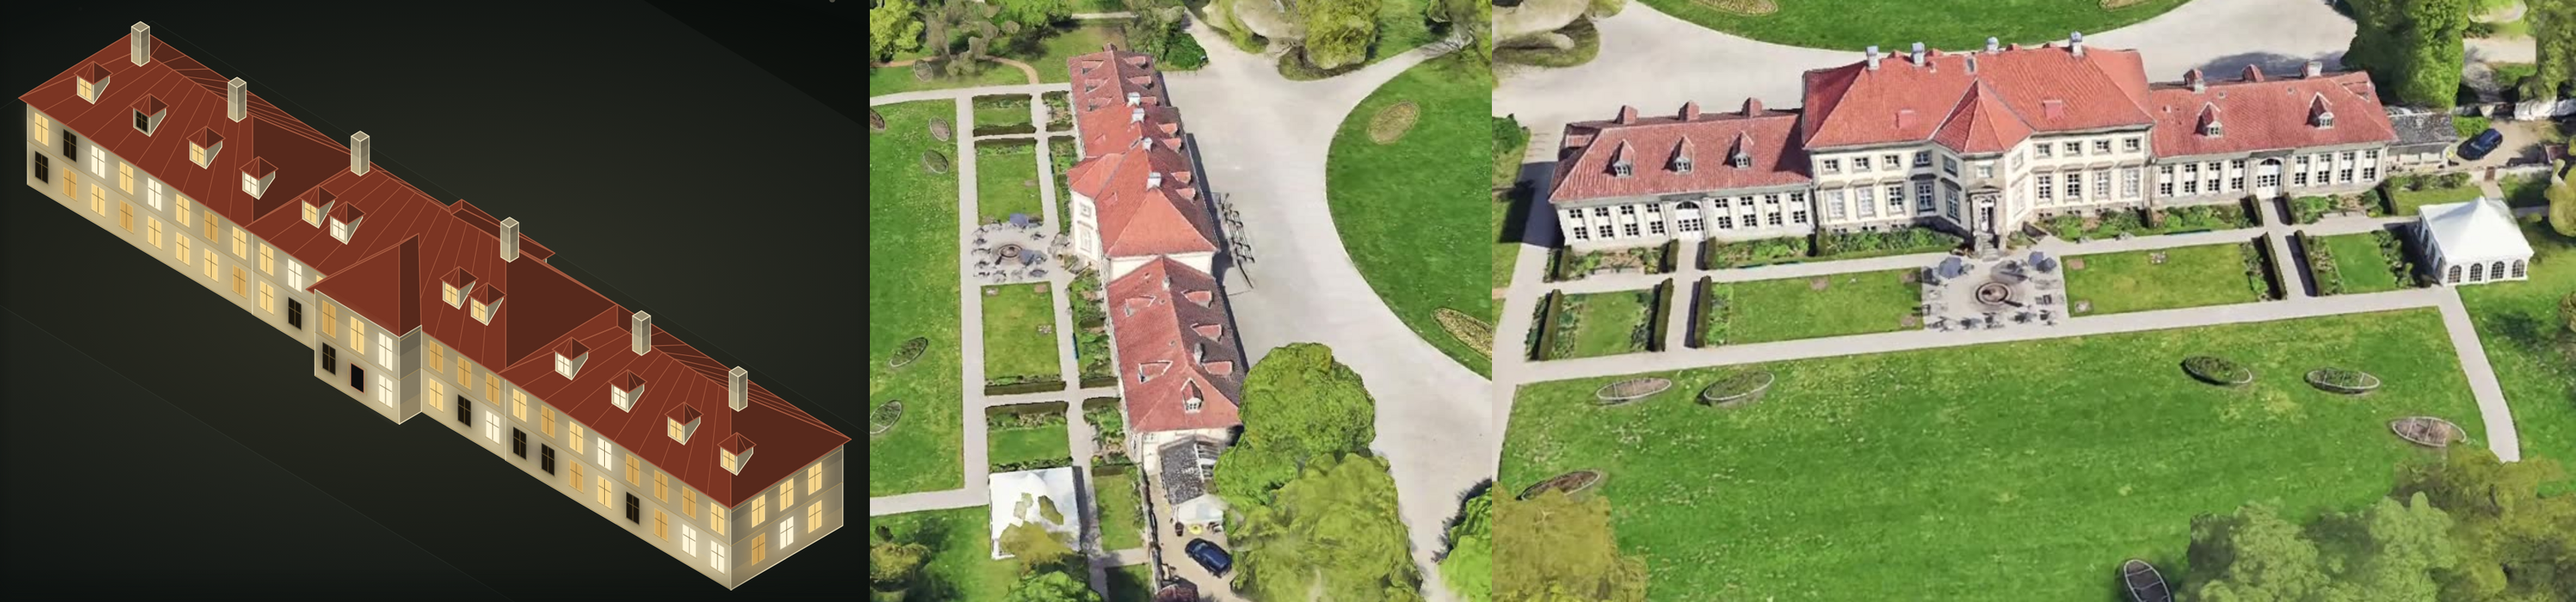
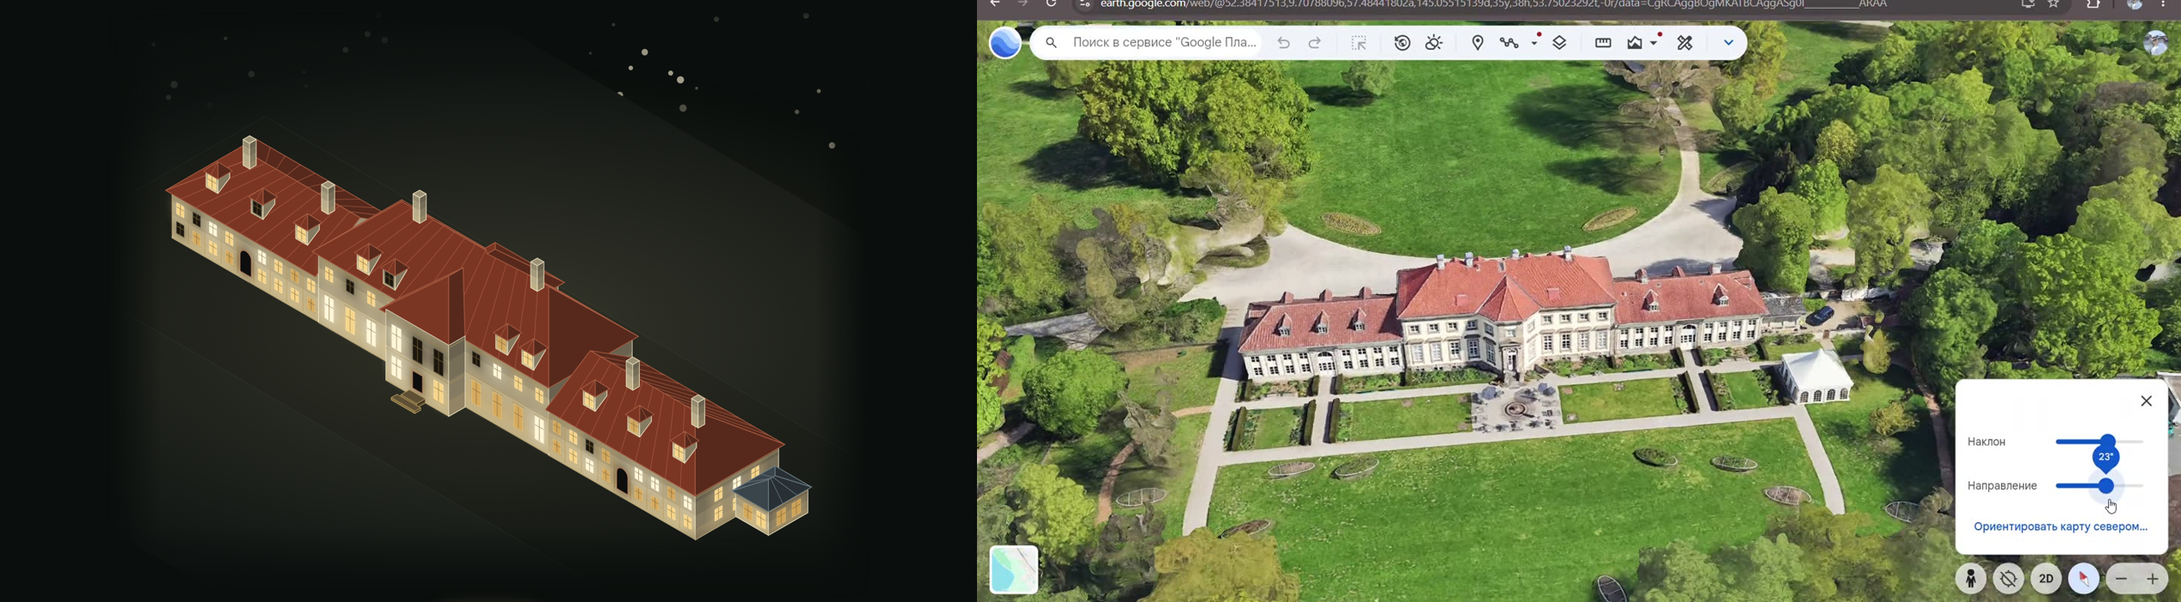
Georgenpalais: крылья и центр разной высоты, арочные двери, пилястры, мансарды, портал, pin, card_phi, meta с seo, отчёт
Claude-Session: https://claude.ai/code/session_01HgqrCLTJ8nNTVYar8oVgoT

diff --git a/landmarks/georgenpalais.js b/landmarks/georgenpalais.js
@@ -3,10 +3,10 @@
    Mitte (x 25,6–54,4) mit höherem Walmdach und 3-achsigem Mittelrisalit (x 35,2–44,8: 2,5 m nach Süden, 1,5 m nach Norden); Flügel je 8 Achsen. Achsmaß 3,2 m.
    Maße: Kontur OSM w5121415 (80 × 12,7 m); Höhen/Achsen nach ref/georgenpalais/foto (siehe INDEX.md). */
 (() => {
-  const Z0 = 1, L = 80, D = 12.7, WH = 8.5, P = 3.2, XA = 22.4, XB = 57.6, RX0 = 35.2, RX1 = 44.8;
+  const Z0 = 1, L = 80, D = 12.7, WH = 9.4, WW = 6.3, P = 3.2, PW = 22.4 / 9, XA = 22.4, XB = 57.6, RX0 = 35.2, RX1 = 44.8;
   ISO.landmark('georgenpalais', H => {
-    const { f2, hl, vl, winR, wins, hip } = H, M = [], add = m => (M.push(m), m);
-    const ze = Z0 + WH;
+    const { f2, hl, vl, winR, wins, hip, roofPlane } = H, M = [], add = m => (M.push(m), m);
+    const ze = Z0 + WH, zw = Z0 + WW;
     // Wand: Achsen n ab Versatz off, zwei Fensterreihen; opt.door = Achsindex mit Tür im EG; opt.tall = hohe Fenster im OG
     const fac = (n, off = 0, opt = {}) => (len, h) => {
       let q = hl(0, len, .35) + hl(0, len, .9) + hl(0, len, h - 4.3) + hl(0, len, h - .02), w = '';
@@ -19,17 +19,42 @@
       }
       return q + wins(w);
     };
-    const endWall = (len, h) => { let w = '', q = hl(0, len, .35) + hl(0, len, .9) + hl(0, len, h - 4.3);
-      for (let i = 0; i < 3; i++) { const x = (len - 3 * P) / 2 + i * P + P / 2 - .7; w += winR(x, h - 3.7, 1.4, 2.5, 0) + winR(x, h - 7.45, 1.4, 2.5, 1); }
+
+    // Flügelfassade (je 9 Achsen, Pilasterstreifen, mittig Rundbogentür): zwei Reihen kleiner Sprossenfenster
+    const wing = (len, h) => {
+      const n = 9; let q = hl(0, len, .3) + hl(0, len, .8) + hl(0, len, h - .02), w = '';
+      for (let i = 0; i <= n; i++) q += vl(i * PW, .8, h - .3);
+      for (let i = 0; i < n; i++) {
+        const cx = (i + .5) * PW;
+        if (i === 4) {
+          w += `<path class="lv" d="M${f2(cx - .85)} ${f2(h - .8)}V${f2(h - 3)}A.85 .85 0 0 1 ${f2(cx + .85)} ${f2(h - 3)}V${f2(h - .8)}Z"/>`;
+          q += hl(cx - 1.15, cx + 1.15, h - 3.9) + vl(cx - 1.15, h - 3.9, h - .8) + vl(cx + 1.15, h - 3.9, h - .8);
+        } else { w += winR(cx - .55, h - 2.5, 1.1, 1.5, 0); q += hl(cx - .7, cx + .7, h - .95); }
+        if (i !== 4) w += winR(cx - .55, 1.3, 1.1, 1.45, 1);
+      }
+      return q + wins(w);
+    };
+    // Mittelbau: unten hohe Fenster mit Verdachung, oben kleine Fenster, Kranzgesims
+    const mid = n => (len, h) => {
+      let q = hl(0, len, .3) + hl(0, len, .8) + hl(0, len, h - .02) + hl(0, len, 1.0) + hl(0, len, h - 4.7), w = '';
+      for (let i = 0; i < n; i++) {
+        const cx = (i + .5) * (len / n);
+        w += winR(cx - .65, h - 4.1, 1.3, 3.0, 0) + winR(cx - .55, 1.5, 1.1, 1.55, 1);
+        q += hl(cx - .9, cx + .9, h - 4.3) + hl(cx - .85, cx + .85, 1.2);
+      }
+      return q + wins(w);
+    };
+    const endWall = (len, h) => { let w = '', q = hl(0, len, .3) + hl(0, len, .8) + hl(0, len, h - .02);
+      for (let i = 0; i < 3; i++) { const cx = len / 2 + (i - 1) * 2.8; w += winR(cx - .55, h - 2.5, 1.1, 1.5, 0) + winR(cx - .55, 1.3, 1.1, 1.45, 1); }
       return q + wins(w); };
-    const body = (id, x0, x1, deco) => add({ id, fp: [x0, 0, x1, D], draw: K => K.box(x0, 0, Z0, x1 - x0, D, WH, 'pl', deco) });
+    const body = (id, x0, x1, deco, h = WH) => add({ id, fp: [x0, 0, x1, D], draw: K => K.box(x0, 0, Z0, x1 - x0, D, h, 'pl', deco) });
     // senkrechte Fläche mit Normale nach außen (nx, ny)
     const vface = (K, pts, nx, ny, mat) => {
       let a = 0, b = 0;
       for (let i = 0; i < pts.length; i++) { const p = pts[i], q = pts[(i + 1) % pts.length]; a += (p[1] - q[1]) * (p[2] + q[2]); b += (p[2] - q[2]) * (p[0] + q[0]); }
       return K.face(a * nx + b * ny >= 0 ? pts : pts.slice().reverse(), mat);
     };
-    const dormer = (K, x, side, yEave, slope) => { // side +1 Südhang, −1 Nordhang; yEave = y der Traufe
+    const dormer = (K, x, side, yEave, slope, ze = zw) => { // side +1 Südhang, −1 Nordhang; yEave = y der Traufe
       const t0 = 2.3, yf = yEave - side * t0, yb = yf - side * 1.8, zf = ze + t0 * slope - .2, zb = ze + (t0 + 1.8) * slope - .2, zT = zf + 2.1;
       let s = K.wall(side > 0 ? [x - .9, yf] : [x + .9, yf], side > 0 ? [x + .9, yf] : [x - .9, yf], zf, zT, 'pl', (len, h) => wins(winR(.3, .35, len - .6, h - .6, 1)));
       s += vface(K, [[x + .9, yf, zf], [x + .9, yb, zb], [x + .9, yb, zT], [x + .9, yf, zT]], 1, 0, 'pl');
@@ -38,20 +63,29 @@
       return s;
     };
     // Nordhang ist aus Südost verdeckt (Blick über den First) → nur Süd-Gauben zeichnen
-    const dormers = (K, xs, yN, yS, slope) => xs.map(x => dormer(K, x, 1, yS, slope)).join('');
+    const dormers = (K, xs, yN, yS, slope, zE) => xs.map(x => dormer(K, x, 1, yS, slope, zE)).join('');
     const chimney = (K, x, z) => K.box(x, D / 2 - .5, z - 1, 1, 1, 3.4, 'pl', {});
     const OV = .5;
     // Körper
-    body('wW', 0, XA, { N: fac(7), S: fac(7), W: endWall });
-    body('wC', XA, XB, { N: fac(11), S: fac(11) });
-    body('wE', XB, L, { N: fac(7), S: fac(7), E: endWall });
+    body('wW', 0, XA, { N: wing, S: wing, W: endWall }, WW);
+    body('wC', XA, XB, { N: mid(11), S: mid(11) });
+    body('wE', XB, L, { N: wing, S: wing, E: endWall }, WW);
     // Mittelrisalit (Süd 2,5 m, Nord 1,5 m) + Freitreppe nördlich
-    add({ id: 'rS', fp: [RX0, D, RX1, D + 2.5], draw: K => K.box(RX0, D, Z0, RX1 - RX0, 2.5, WH, 'pl', { S: fac(3, 0, { door: 1, tall: true }), E: (len, h) => hl(0, len, .35) + hl(0, len, h - 4.3) }, false) });
+    add({ id: 'rS', fp: [RX0, D, RX1, D + 2.5], draw: K => K.box(RX0, D, Z0, RX1 - RX0, 2.5, WH, 'pl', { S: fac(3, 0, { door: 1, tall: true }), E: (len, h) => hl(0, len, .35) + hl(0, len, h - 4.3) }, false)
+      + K.box(RX0 + 3.6, D + 2.5, Z0, 2.4, 1.3, .55, 'st', {}) + K.box(RX0 + 3.0, D + 3.8, Z0, 3.6, .9, .3, 'st', {}) });
     add({ id: 'rN', fp: [RX0, -1.5, RX1, 0], draw: K => K.box(RX0, -1.5, Z0, RX1 - RX0, 1.5, WH, 'pl', { N: fac(3, 0, { door: 1, tall: true }), E: (len, h) => hl(0, len, .35) + hl(0, len, h - 4.3) }, false)
       + K.box(RX0 + 2, -3.3, Z0, 5.6, 1.8, .6, 'st', {}) + K.box(RX0 + 1.4, -4.5, Z0, 6.8, 1.2, .3, 'st', {}) });
     // Dächer: West-, Mitteltrakt, Osttrakt (hinten → vorne)
-    const wz = 4.7, cz = 8.0, sw = wz / (D / 2 + OV), sc = cz / (D / 2 + OV);
-    add({ id: 'dW', fp: [0, 0, XA, D], above: 'wW', draw: K => hip(K, -OV, -OV, XA + OV, D + OV, ze, ze + wz, 'tl') + dormers(K, [P * 1.5, P * 3.5, P * 5.5], -OV, D + OV, sw) + chimney(K, 6, ze + wz) + chimney(K, 15, ze + wz) });
+    const wz = 4.4, cz = 6.6, sw = wz / (D / 2 + OV), sc = cz / (D / 2 + OV);
+    // Flügeldach: Walm nur am Außenende, innen stößt der First an den Mittelbau
+    const wingRoof = (K, xo, xi, dir) => {
+      const ym = D / 2, zr = zw + wz, y0 = -OV, y1 = D + OV, h = D / 2 + OV;
+      const e0 = dir < 0 ? -OV : XB, e1 = dir < 0 ? XA : L + OV, r0 = dir < 0 ? -OV + h : XB, r1 = dir < 0 ? XA : L + OV - h;
+      let s = roofPlane(K, [[e0, y0, zw], [e1, y0, zw], [r1, ym, zr], [r0, ym, zr]], 'tl', 2.2) + roofPlane(K, [[e1, y1, zw], [e0, y1, zw], [r0, ym, zr], [r1, ym, zr]], 'tl', 2.2);
+      s += dir < 0 ? K.face([[e0, y1, zw], [e0, y0, zw], [r0, ym, zr]], 'tl') : K.face([[e1, y0, zw], [e1, y1, zw], [r1, ym, zr]], 'tl');
+      return s;
+    };
+    add({ id: 'dW', fp: [0, 0, XA, D], above: 'wW', draw: K => wingRoof(K, 0, XA, -1) + dormers(K, [4.3, 11.2, 18], -OV, D + OV, sw, zw) + chimney(K, 5, zw + wz - .5) + chimney(K, 17, zw + wz - .5) });
     add({ id: 'dC', fp: [XA, 0, XB, D], above: 'wC', draw: K => {
       let s = hip(K, XA - OV, -OV, XB + OV, D + OV, ze, ze + cz, 'tl');
       // Quer-Walmdach des Risalits (Süd) und (Nord)
@@ -67,9 +101,9 @@
       s += dormers(K, [XA + 5, XA + 9, XB - 9, XB - 5], -OV, D + OV, sc);
       return s + chimney(K, 31, ze + cz) + chimney(K, 49, ze + cz);
     } });
-    add({ id: 'dE', fp: [XB, 0, L, D], above: 'wE', draw: K => hip(K, XB - OV, -OV, L + OV, D + OV, ze, ze + wz, 'tl') + dormers(K, [XB + P * 1.5, XB + P * 3.5, XB + P * 5.5], -OV, D + OV, sw) + chimney(K, 66, ze + wz) + chimney(K, 74, ze + wz) });
+    add({ id: 'dE', fp: [XB, 0, L, D], above: 'wE', draw: K => wingRoof(K, XB, L, 1) + dormers(K, [XB + 4.4, XB + 11.2, XB + 18.1], -OV, D + OV, sw, zw) + chimney(K, XB + 6, zw + wz - .5) + chimney(K, XB + 16, zw + wz - .5) });
     // Eingeschossiger Anbau am Ostende (graues Dach, in v_06/v_07 sichtbar; nicht in der OSM-Kontur)
     add({ id: 'an', fp: [L, .5, L + 5, 6.5], parent: 'wE', side: 'E', draw: K => K.box(L, .5, Z0, 5, 6, 3.4, 'pl', { E: (len, h) => hl(0, len, .4) + wins(winR(1.3, 1, 1.3, 1.8, 0) + winR(3.6, 1, 1.3, 1.8, 0)), S: (len, h) => hl(0, len, .4) + wins(winR(1.2, 1, 1.3, 1.8, 0) + winR(3.2, 1, 1.3, 1.8, 0)) }) + hip(K, L - .3, .2, L + 5.3, 6.8, Z0 + 3.4, Z0 + 4.9, 'sl') });
-    return { mods: M, lc: [L / 2, D / 2], z0: 0, top: [L / 2, D / 2, Z0 + 15], label: 'Georgenpalais', h: 15, len: L };
+    return { mods: M, lc: [L / 2, D / 2], z0: 0, top: [L / 2, D / 2, Z0 + 17], pin: [L / 2, D / 2, Z0 + 18.6], label: 'Georgenpalais', h: 17, len: L };
   });
 })();

diff --git a/ref/georgenpalais/README.md b/ref/georgenpalais/README.md
@@ -1,28 +1,39 @@
-# Georgenpalais — Bericht (Branch `lm/georgenpalais`)
+# Georgenpalais (Wallmodenpalais, Wilhelm-Busch-Museum) — отчёт о доработке
 
-**Gemacht:** neues Gebäude `landmarks/georgenpalais.js` + `landmarks/meta/georgenpalais.json` (OSM w5121415). Ein Modul: zwei Flügel + Mitteltrakt, Mittelrisalit (Süd 2,5 m / Nord 1,5 m) mit Quer-Walmdächern, höheres Mitteldach, Gauben (nur Südhänge gezeichnet), Schornsteine, Freitreppe an der Nordseite, kleiner Anbau am Ostende.
+Ветка `lm/p_georgenpalais`. Файлы: `landmarks/georgenpalais.js`, `landmarks/meta/georgenpalais.json`, `ref/georgenpalais/`.
+Сравнения (слева наш рисунок, справа кадр Google Earth): `vergleich-1.png` (юг, `v_06`), `vergleich-2.png` (юго-восток/восток, `v_07`), `vergleich-3.png` (север, `v_01`).
 
-## Seite → Kadr
-| Seite | Kadr |
-|---|---|
-| Süd (Gartenseite, in der Kartenansicht vorn) | v_06, v_07 |
-| Ost | v_07 |
-| Nord (Hofseite) | v_01, v_02, v_08 |
-| West | v_03, v_04, v_05 |
+## Что сделано
+- Крылья и центр теперь разной высоты, как на кадре `v_06`: крылья низкие (стена 6,3 м, крутая крыша 4,4 м), центральный корпус выше (стена 9,4 м, большой вальмовый (Walmdach) кров 6,6 м).
+- Крылья: по 9 осей, пилястровые полосы, две строки малых окон с переплётами, посередине арочная дверь (Rundbogentür); крыша с вальмой только на внешнем конце, внутри конёк упирается в центральный корпус; по 3 мансардных окна (Gauben) с двускатными крышами и щёчками на южном скате.
+- Центр: 11 осей, внизу высокие окна с козырьками, вверху малые, венчающий карниз; трёхосный ризалит (Risalit) на юге 2,5 м с порталом и ступенями; на севере 1,5 м с лестницей.
+- Восточная пристройка с серой крышей (на кадрах есть, в OSM-контуре нет), трубы.
+- Точка: `pin: [40, 6.35, 19.6]` — над серединой здания, над коньком центра; на карте проверено (`tools/preview.sh`).
+- Размер: `len` 80 м = длинная сторона OSM (w5121415, 79,6 м) → **fit ≈ ×0,995**.
+- `card_phi` = 0: в карточке виден южный садовый фасад с порталом, как на `v_06`. Ошибок консоли нет (390×760 и 1000×700); проверены повороты 0/90/180/270.
+- Meta: добавлены `seo` (≈125 слов), `addr` (Georgengarten 1, 30167 Hannover — по OSM), `year`, `arch`; в `studio` убрано утверждение про боковые флигели Лавеса 1826 (источники его не подтвердили).
 
-## Nach Analogie / nicht belegt
-- Fensterzahl je Achse und Gewände nur grob (ein Rhythmus für alle Seiten); Türen der Flügel nicht gezeichnet.
-- Nordseite aus SO nicht sichtbar → Nordgauben bewusst weggelassen (würden über dem First schweben, weil das Skript nicht verdeckt).
-- Ostanbau und Westende nach Luftbild geschätzt; Festzelt östlich nicht gezeichnet.
-- Höhen aus Kadern geschätzt (OSM height=10 passt nicht zum Dach).
-- Lage der Hofseite (Nord): aus v_01 (Blick 180°) abgeleitet; Meta `face` = Norden.
+## Сторона → кадры
+| сторона | кадры | примечание |
+|---|---|---|
+| юг (сад) | v_06, v_07 | оси и двери крыльев сверены по приближению |
+| север (двор) | v_01, v_02, v_08 | портал, стены; мансарды северного ската не нарисованы |
+| запад | v_03, v_04, v_05 | торец с тремя осями по аналогии |
+| восток | v_07 | пристройка с серой крышей |
 
-## Fakten (zwei Quellen)
-1780–82 für Graf von Wallmoden-Gimborn gebaut, 1817 von Georg III. gekauft; heute Wilhelm-Busch-Museum (visit-hannover, Wikipedia «Georgengarten»). Die niedrigeren Flügel von 1826 (Laves) laut Wikipedia. Bauzeit der Gliederung (welcher Teil 1826) nicht anhand der Kader geprüft.
+## Что не совпадает / по аналогии
+- Скосы (фаски) углов южного ризалита: в жизни он граненый (3 грани), у нас прямоугольный.
+- Мансарды на северном скате не рисуются (при фиксированном ракурсе скат скрыт); в карточке с `card_phi` 180 их не будет видно, поэтому выбран 0. На севере у крыльев по 3 мансарды, у центра 2+2 (кадры `v_01`, `v_02`).
+- Северный портал с треугольным фронтоном и зелёная дверь восточного крыла не детализированы.
+- Белый шатёр (Zelt) рядом с крылом на кадрах `v_02`/`v_07` — временный, не рисуется.
+- Высоты по кадрам (OSM: height=10, это скорее карниз центра); второй источник не найден.
+- Число осей крыльев (9) оценено по `v_06`; нужны приближенные кадры, чтобы подтвердить.
 
-## Sichtprüfung
-`vergleich-1…3.png` (links Studio, Mitte v_07, rechts v_06): Gliederung, Dachmassen, Risalit stimmen; Rest sind Gewände/Gaubenformen. `telefon-390.png`: Gebäude passt (≈ 366 px) ins Bild. `preview.sh` (Karte) nicht gemacht: Karte ist in dieser Umgebung nicht rendbar (SCENE.region fehlt im Skript, siehe lm/telemax-Bericht).
+## Какие кадры нужны Степану
+1. Южный фасад западного крыла фронтально, с высоты глаз (точное число осей, форма двери).
+2. Северный портал центра вблизи и северные скаты (мансарды).
+3. Западный торец и пристройка у восточного торца.
 
-## Für Sammler
-- Kein neues Material in `core/` nötig. Gebäude liegt im Kernbereich (52.3842, 9.7078).
-- Hinweis wie bei Telemax: `tools/*` suchen Chromium 1194 (jetzt 1243), `map-crop.mjs` ohne `SCENE.region`.
+## От движка / сборщика
+- Ничего в `core/` не нужно; здание в зоне детальных плиток, расширять зону не нужно.
+- Источники: visit-hannover.com (1780–1782, Wallmoden-Gimborn, Георг III 1817), en.wikipedia (музей с 1950), OSM w5121415 (адрес).
